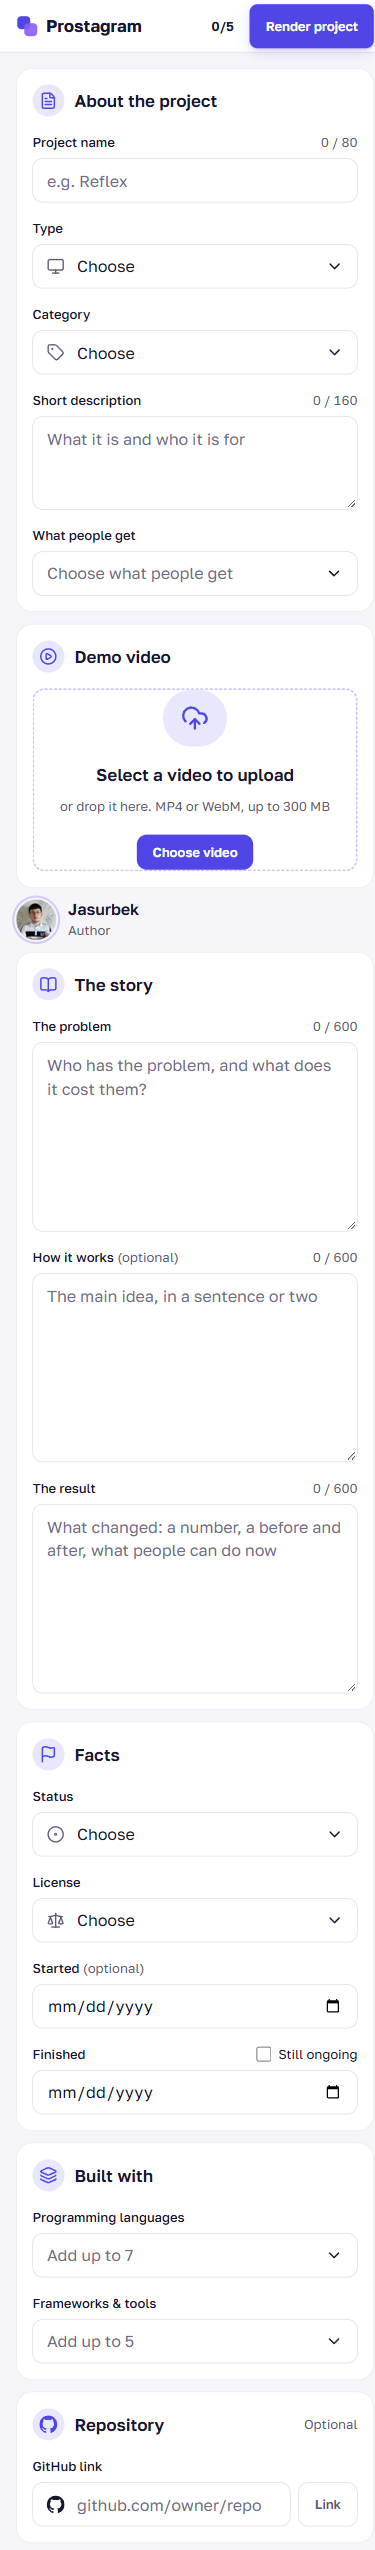
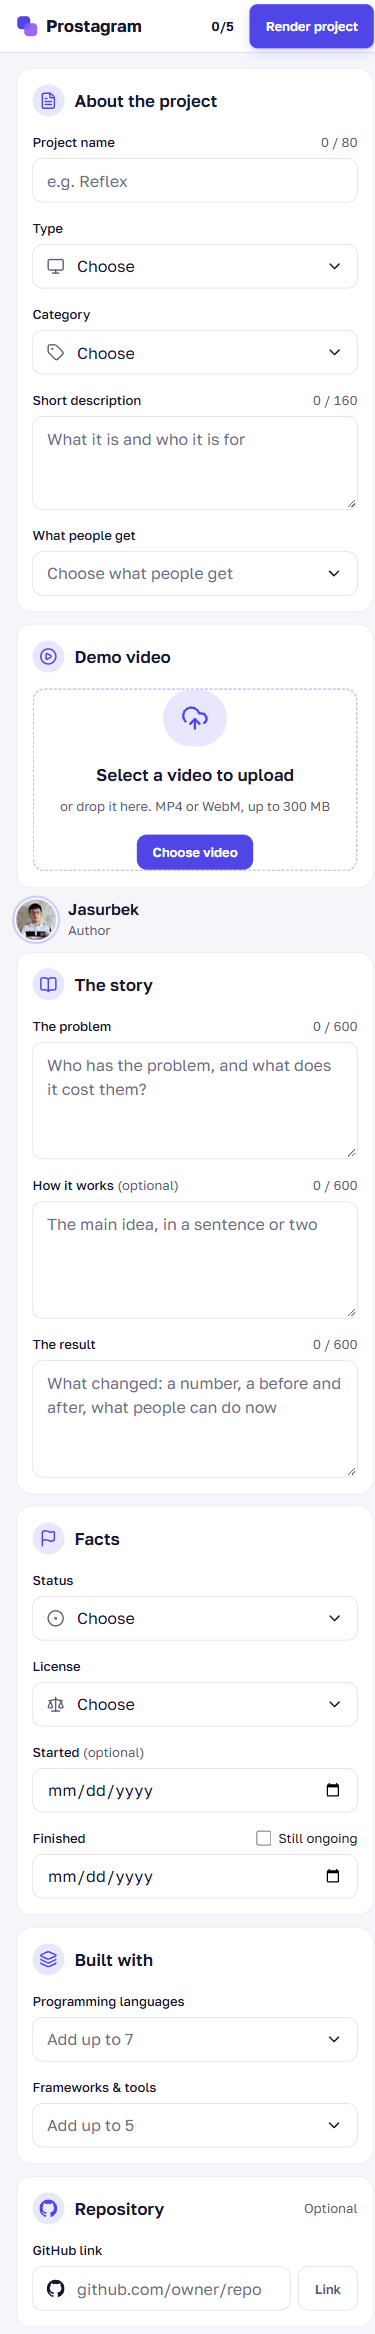
fix(frontend): story fields side by side again
Bek tried the three story fields one under another and chose the side-by-side layout.

diff --git a/frontend/src/components/editor/story-editor.tsx b/frontend/src/components/editor/story-editor.tsx
@@ -11,11 +11,11 @@ const PLACEHOLDER = {
   outcome: "What changed: a number, a before and after, what people can do now",
 } as const;
 
-/** The story: its three parts one under another, tall enough to fill the video column (Bek, 2026-11-25). */
+/** The story: the three parts of the project page's story card, side by side. */
 export function StoryEditor({ form, setField, catalog, errorFor }: SectionProps) {
   return (
     <FormSection id="story" icon={BookOpen} title="The story">
-      <div className="flex flex-col gap-[16px]">
+      <div className="grid grid-cols-3 gap-[16px] max-desk:grid-cols-1">
         {STORY.map((step) => (
           <Field
             key={step.field}
@@ -27,7 +27,7 @@ export function StoryEditor({ form, setField, catalog, errorFor }: SectionProps)
           >
             <TextAreaField
               id={step.field}
-              rows={7}
+              rows={4}
               value={form[step.field]}
               maxLength={catalog.text_limits[step.field]}
               placeholder={PLACEHOLDER[step.field]}

diff --git a/docs/specs/2026-11-23-prostagram-upload-and-project-pages.md b/docs/specs/2026-11-23-prostagram-upload-and-project-pages.md
@@ -53,7 +53,7 @@ Out of scope now: login, explore page, editing a rendered project, likes, commen
 | D28 | Project page redundancy removed (Bek, 2026-11-24): no "Try demo" (it duplicated the video's own play control) and no "View source" (it duplicated "Open on GitHub" in the repository preview). The video shows the browser's own controls from the start (play, time, volume, fullscreen), never starts by itself, and returns to its first frame at the end; the separate duration badge is removed (the controls show the time). |
 | D29 | Redesign (Bek, 2026-11-25), designs in the canvas https://claude.ai/artifact/WLaPPbpz4Roh7KNgiAEZku: the project page is "D7" (one screen: details, facts, Built with and the repository preview on the left; video, author and the three-part story on the right) and the upload page is "U4", the same page edited in place (every value typed or picked where it shows). Removed from the form, the pages and the database (migration 0004, values deleted): Post language (supersedes D7) and Get it running, that is getting started, requirements and limitations (supersedes D15 and D25's examples), because the repository's README already shows how to run it. The repository preview (D18) takes Get it running's place; the GitHub button under the video is gone ("Open on GitHub" in the preview does that job, D28 rule). The short description gets three lines of room. The upload header keeps a five-part ready bar with "N of 5 ready" (Video, Story, About, Facts, Built with). With no dates, the project page keeps the Timeline cell and shows a dash. Desktop first; phone and tablet are designed after Bek approves desktop. Sections 4 and 6 below describe the earlier mockup layout; where they differ, D29 wins. |
 | D30 | Phone and tablet (Bek, 2026-11-25: wait for the phone design before deploying; design it and build it). Below 1100px both pages are one column in this order: name card, video, author, story, facts, Built with, repository. The DOM follows that order (the desktop grid places the cards), so keyboards and screen readers meet them as a phone shows them; on desktop Tab now goes name card, video, story, facts, Built with, repository. Phone (<640px): title 28px, body 16px (no iOS zoom in text fields); facts Status | License with Timeline on its own row; Built with labels above their chips; repository files above the README; choosers open as bottom sheets with a Done button; every control has a 44x44 touch area; the upload header shows "N/5" beside Render. |
-| D31 | Upload page "U5" (Bek, 2026-11-25): a form, not edit in place. Every field has its label above it and a box of a fixed size (no field grows while typing); selects show an icon and a chevron; text fields show their character count in the label row; several choices show "N of M chosen" with removable chips under the box; Render marks an empty field with "Missing" beside its label and a red border. Each part is a section with an icon and a title. The sections stay where the project page shows them (the repository stays in the left column; a scroll is fine); the story's three fields sit one under another in the right column, tall enough to fill it. |
+| D31 | Upload page "U5" (Bek, 2026-11-25): a form, not edit in place. Every field has its label above it and a box of a fixed size (no field grows while typing); selects show an icon and a chevron; text fields show their character count in the label row; several choices show "N of M chosen" with removable chips under the box; Render marks an empty field with "Missing" beside its label and a red border. Each part is a section with an icon and a title. The sections stay where the project page shows them (the repository stays in the left column; a scroll is fine); the story's three fields sit side by side, as on the project page (Bek tried them one under another and chose side by side). |
 
 ## 3. Choices made by Claude (technical, Bek may object)
 
